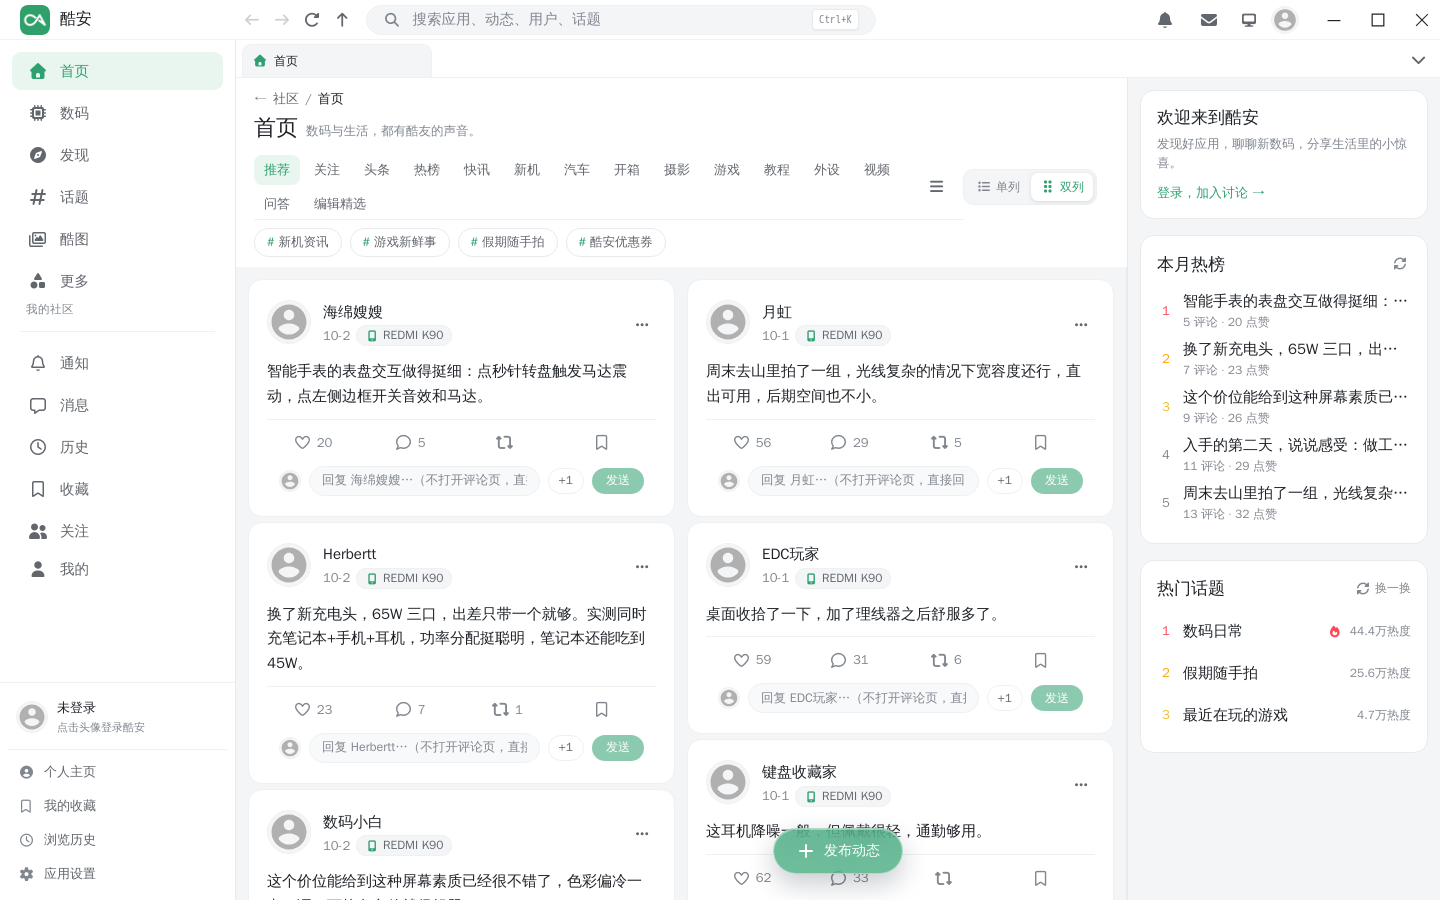
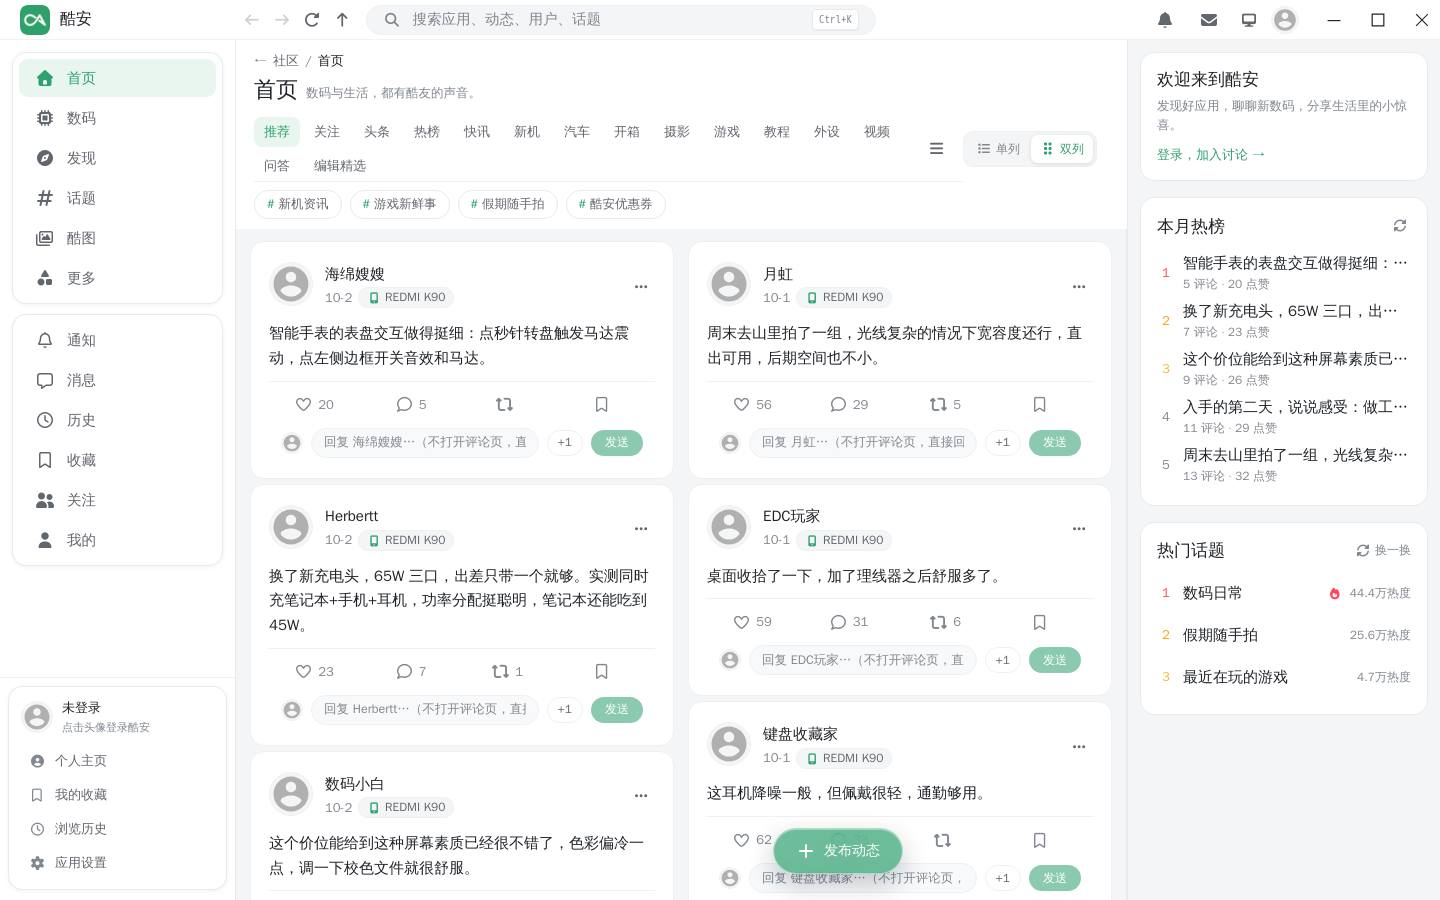
README 更新到 v0.7.1 实际界面：左栏三模块、单页模式、缝隙与露底
界面表左侧导航一行改写成三大模块；自用增强表补 v0.7.1 四条（单页模式默认、左栏三大模块、卡片缝隙统一、列表页不再露底）；预览图按当前构建重截。

diff --git a/README.md b/README.md
@@ -44,7 +44,7 @@
 | | |
 |---|---|
 | **顶栏** | 左：酷安 logo + 「酷安」；中：前进 / 后退 / 刷新 / 回到顶部 + 搜索框（Ctrl+K）；右：通知、私信、主题切换、账号入口（头像，悬停出资料浮层）、窗口按钮；整条栏高 **40px**（紧凑到只留必要留白） |
-| **左侧导航** | 首页 / 数码 / 发现 / 话题 / 酷图 / 更多，以及「我的社区」分组；底部是个人中心卡片，卡片下**常显**「个人主页 / 我的收藏 / 浏览历史 / 应用设置」四项——**设置入口只在这里**，主导航里没有独立的「设置」行；栏本身可收起为图标栏 |
+| **左侧导航** | **三大模块**，每块一张圆角卡：**频道**（首页 / 数码 / 发现 / 话题 / 酷图 / 更多）、**我的社区**（通知 / 消息 / 历史 / 收藏 / 关注 / 我的）、**个人中心**（头像 / 昵称 / 等级 / 经验条 / 签名 / 获赞·关注·粉丝 + 常显「个人主页 / 我的收藏 / 浏览历史 / 应用设置」）——**设置入口只在这里**，导航里没有独立的「设置」行；栏可收起为图标栏（收起时卡片退化为无卡列表） |
 | **中间** | 首页大标题 + 热词胶囊 + 胶囊栏目行；信息流单列 / 双列可切，双列时两列各自独立滚动；**独立话题页也有单列 / 双列开关**（与首页共用同一份设置） |
 | **右侧栏** | 我关注的话题（登录后**置顶**）、欢迎来到酷安（未登录时）、本月热榜、热门话题；可整块隐藏。热门搜索词不在这里，点开顶栏搜索框即可看到 |
 | **发布入口** | 内容区底部居中的悬浮毛玻璃钮（「+ 发布动态」），按住可拖动，位置会记住 |
@@ -73,6 +73,10 @@
 | **标题栏收窄** | 顶栏高度 48 → **40px**（约 2mm），顶栏搜索框同步 38 → 30px | v0.7.0 |
 | **双列真的生效** | 修掉各页面自己的单列样式把全局双列顶掉的老 bug（选「双列」其实还是单列）；独立话题页顺带加上单列 / 双列开关 | v0.7.0 |
 | **设备信息自定义** | 自定义机型 / 品牌 / 构建号真正写进请求：UA 与设备码（`X-App-Device` 的厂商 / 品牌 / 机型 / 构建号四段）都跟随设置，设备页可直接看到将发出的四段；关掉自定义时输出与旧版逐字节一致，老账号不受影响 | v0.7.0 |
+| **单页模式（默认）** | 默认不再显示顶部多标签栏：每次只打开一个页面，左右栏与窗口顶对齐；想同时留多个页面可在 `设置 → 外观 → 多标签页模式` 打开 | v0.7.1 |
+| **左栏三大模块** | 左栏拆成三张圆角卡——频道 / 我的社区 / 个人中心（资料、数据与四项常显菜单同一张卡），层次一眼分明；收起为图标栏时自动退化成无卡列表 | v0.7.1 |
+| **卡片缝隙统一** | 信息流单列与双列的外侧留白统一成 14px，双列列间缝同样 14px（原先单列 18px、双列 12px，切换单/双列时卡片会左右跳） | v0.7.1 |
+| **列表页不再露底** | 「我关注的话题」这类列表页下滑时，顶栏正下方不再露出几毫米灰底——页面标题改成吸顶白条挡住滚动内容 | v0.7.1 |
 
 开关位置：`设置 → 外观` 下的「快捷回复」「我关注的话题」；设置入口在**左下角个人卡的「应用设置」**（主导航里没有）；左右栏收放在侧栏分界线上的手柄。
 
